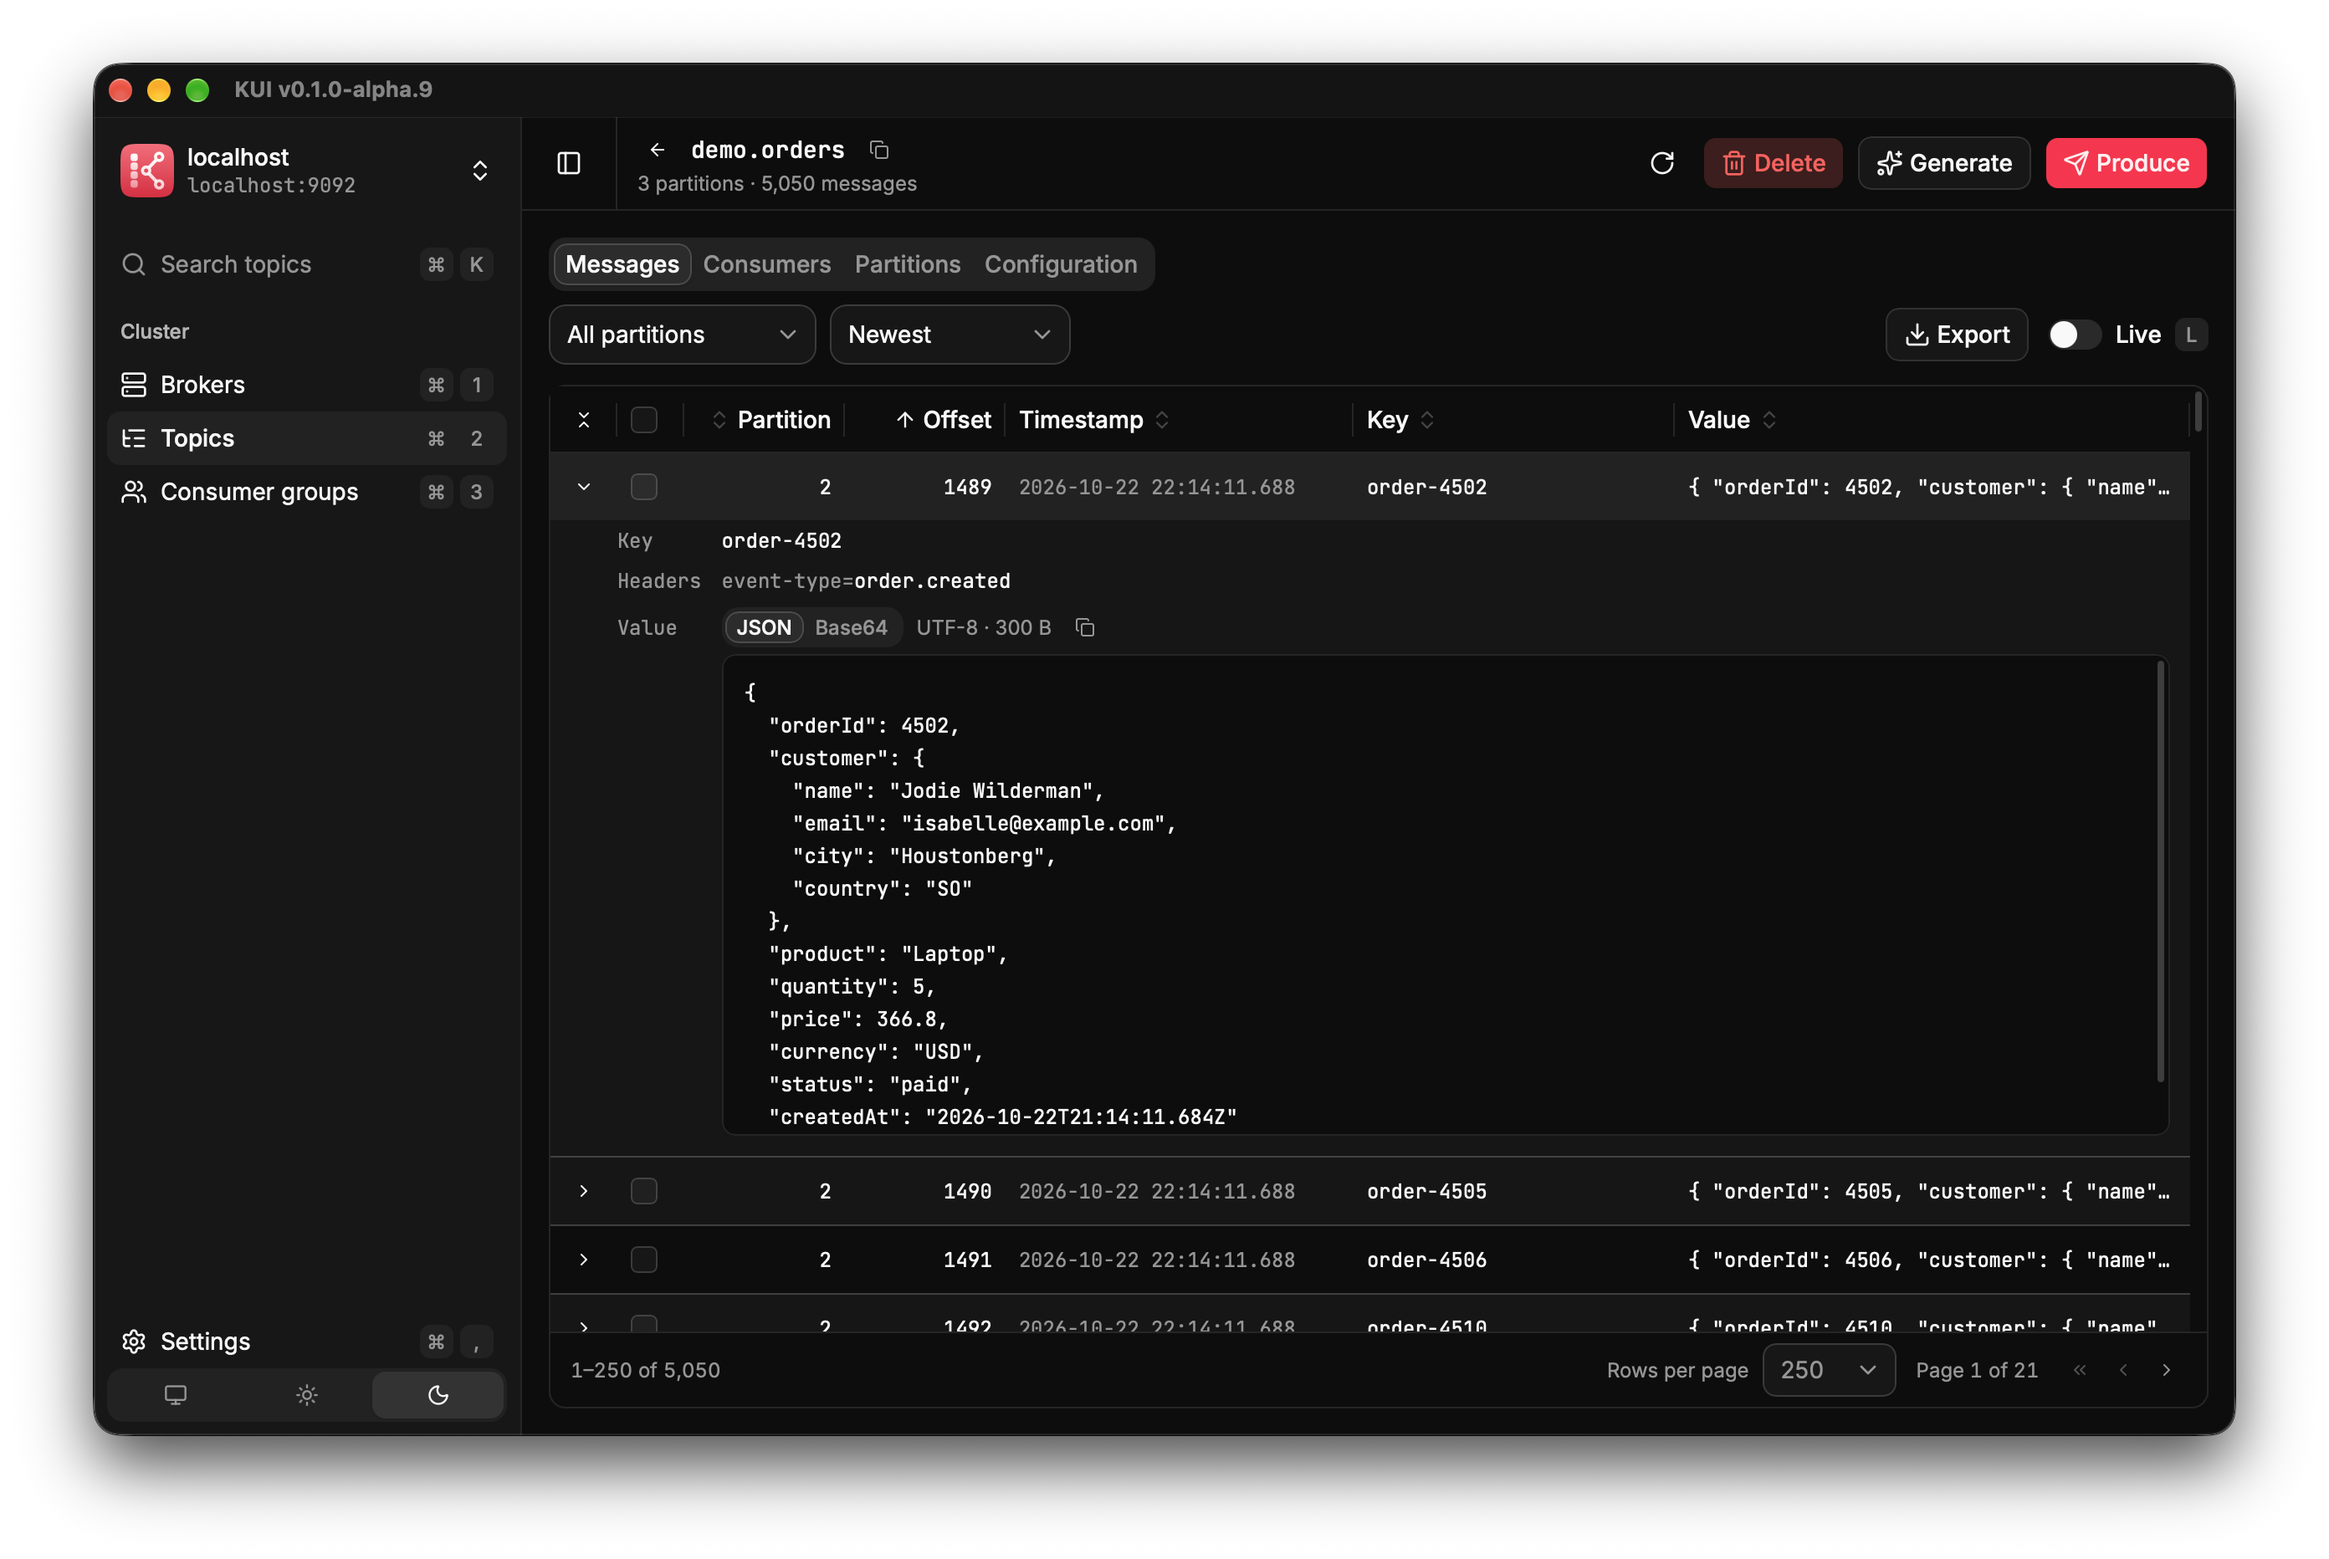
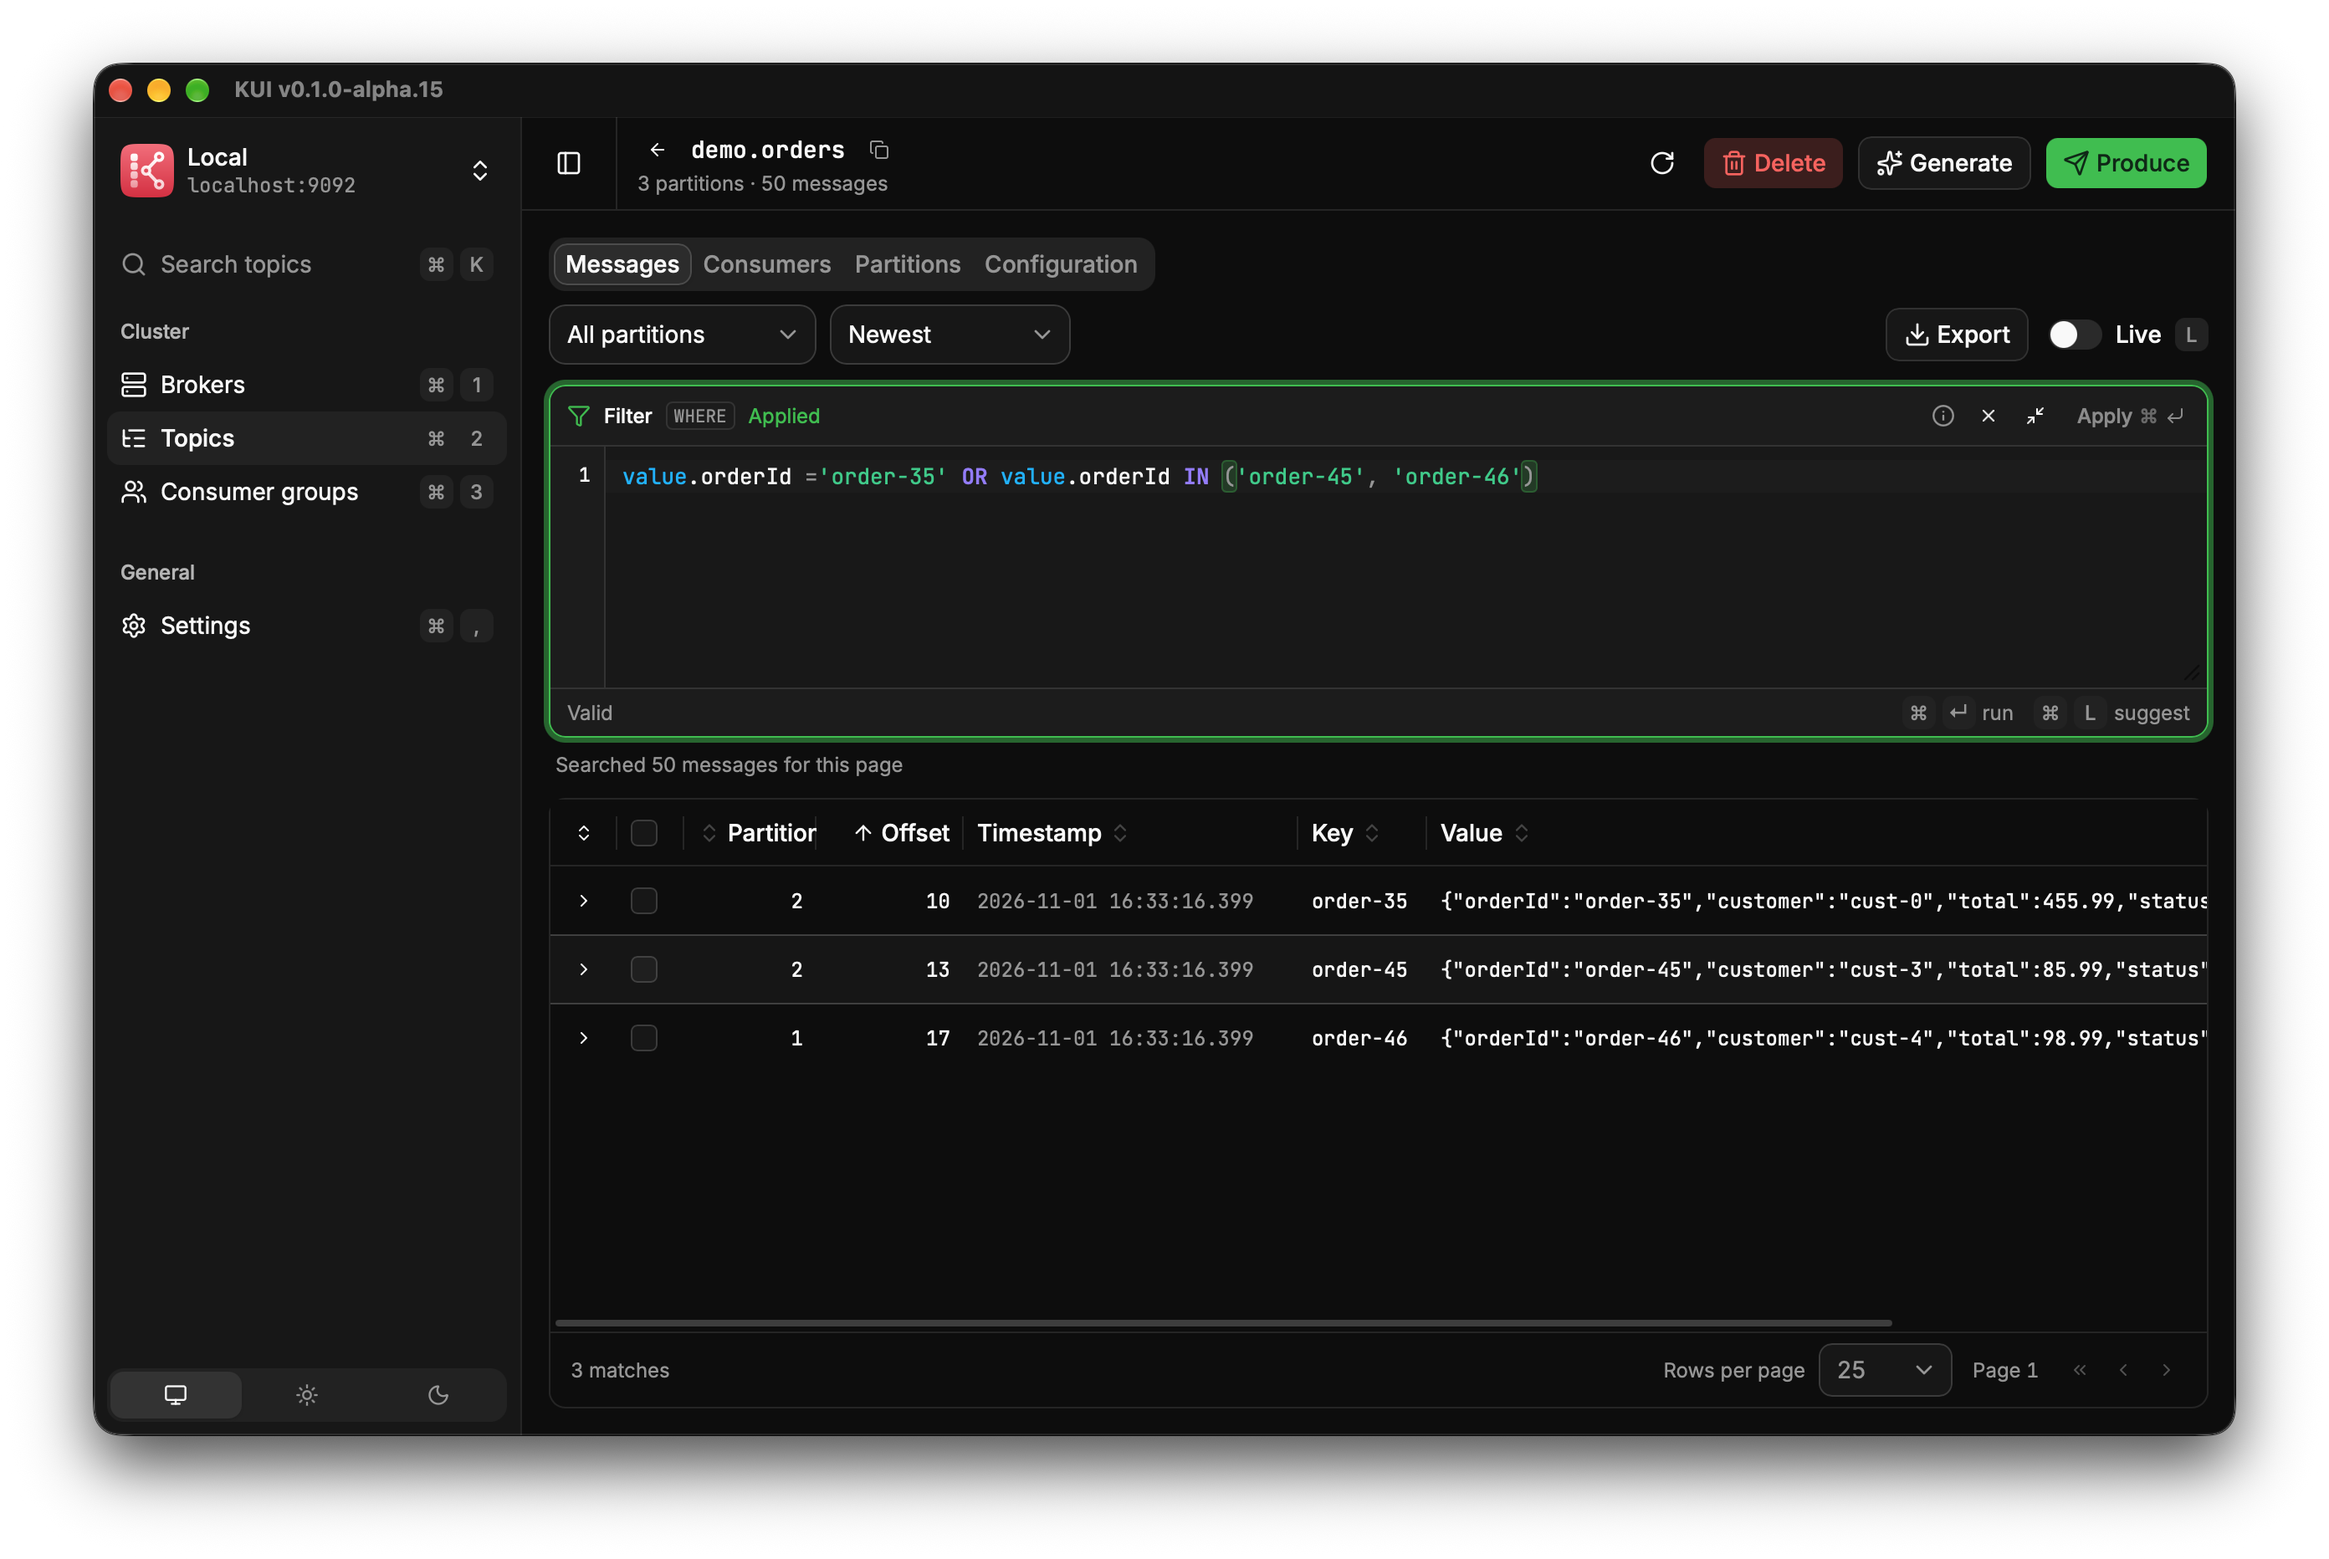
docs: show the query editor in the README messages section
Claude-Session: https://claude.ai/code/session_01JJgxwHz4WB126mmug4Etwo

diff --git a/README.md b/README.md
@@ -58,15 +58,19 @@ Search every topic from anywhere with <kbd>⌘</kbd> <kbd>K</kbd>, or filter the
 See each topic's partitions, replicas and message count at a glance, create and delete topics, and copy a
 topic's name with one click. A Brokers page shows the machines your cluster runs on.
 
-### Read messages the way you want
+### Read and filter messages
 
-<img src="docs/screenshots/02_messages.png" alt="The messages of a topic, with one row expanded" width="820" />
+<img src="docs/screenshots/02_messages.png" alt="A topic's messages filtered with a query in the expanded editor" width="820" />
 
 - Start from the newest or oldest message, or **watch new ones arrive live**.
 - Expand any row to see its key, headers and value side by side. Values show as formatted JSON or Base64.
-- **Filter with SQL-like queries**, e.g. `value.status = 'shipped' AND value.items[*].qty > 3`. Suggestions
-  come from the topic's own messages, so they know every field even when messages differ in shape. See the
-  [query guide](crates/kui_tql/README.md).
+- **Filter with SQL-like queries**, e.g. `value.status = 'shipped' AND value.items[*].qty > 3`. Suggestions for
+  fields, operators and values come from the topic's own messages, so they know every field even when messages
+  differ in shape. Press <kbd>Tab</kbd> or <kbd>Enter</kbd> to pick one, or <kbd>⌘</kbd> <kbd>L</kbd>
+  (<kbd>Ctrl</kbd> <kbd>Space</kbd> on Windows) to open the list. Mistakes are underlined as you type.
+- **Expand the filter** into a multi-line editor with line numbers for longer queries. There, <kbd>Enter</kbd>
+  adds a line and <kbd>⌘</kbd> <kbd>Enter</kbd> (<kbd>Ctrl</kbd> <kbd>Enter</kbd> on Windows) runs it. See the
+  [query guide](crates/kui_tql/README.md) for the full syntax.
 - **Export** messages to JSON, NDJSON or CSV.
 - **Copy** one or many messages to another topic, which is handy for replaying a message or moving test data.
 
